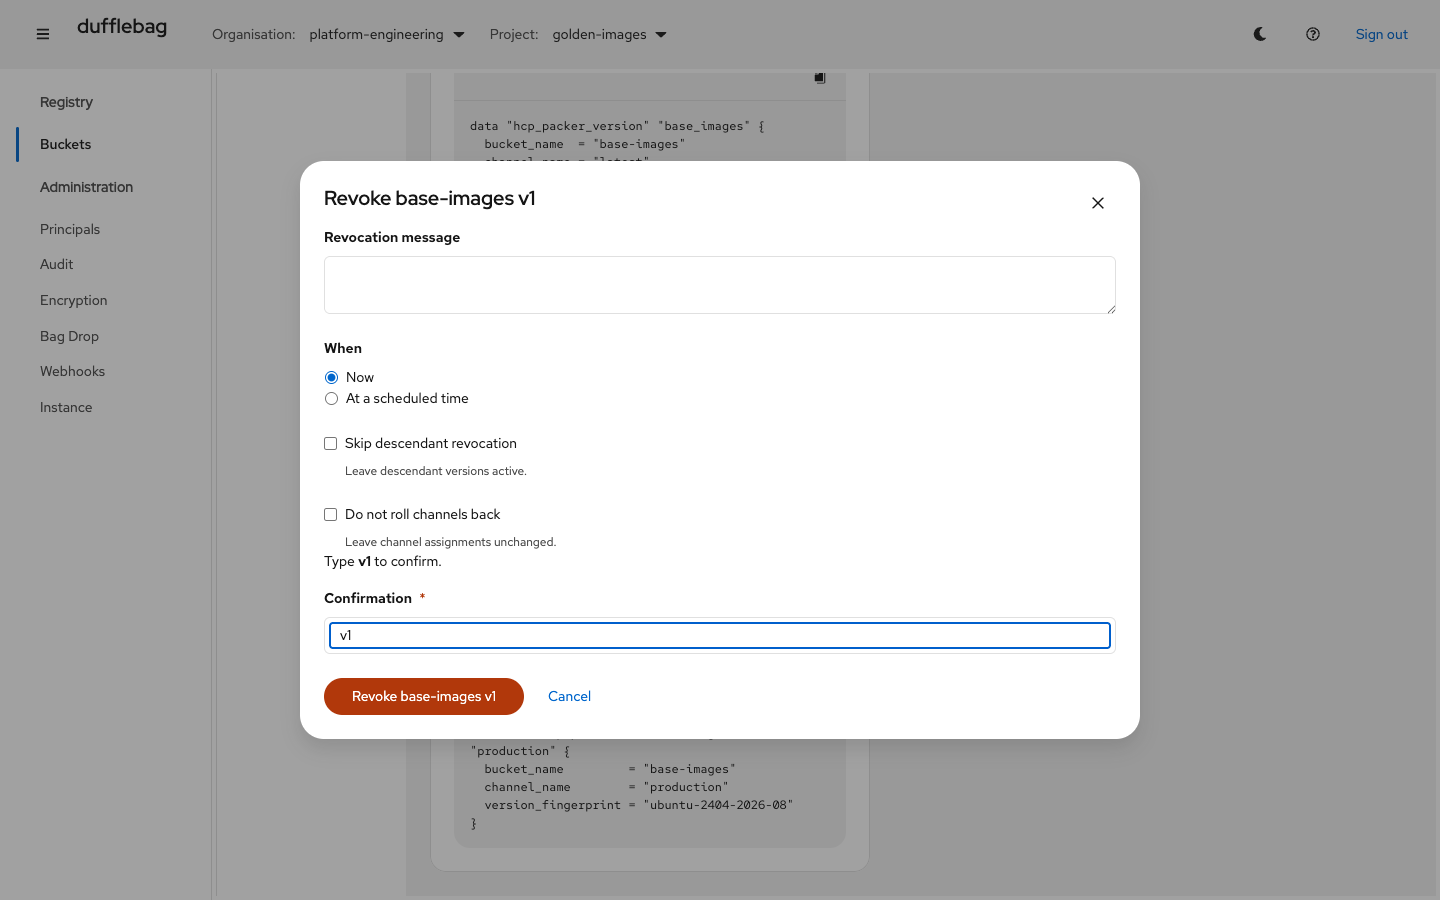
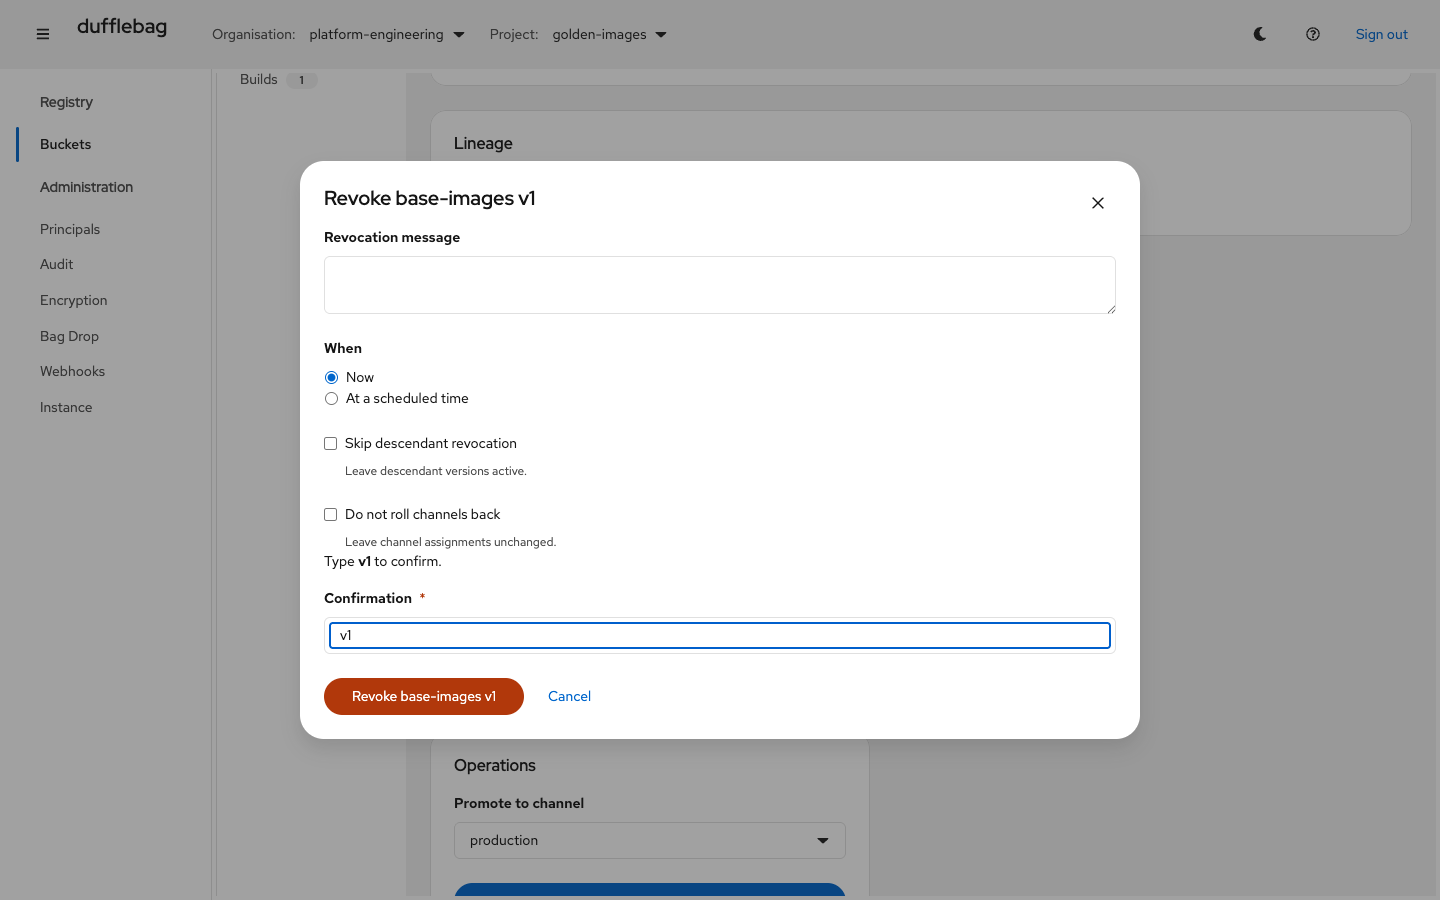
docs: the consumption card gets its own capture
The consumption prose described the platform toggle while the nearest
image framed the Operations card, cropping the toggle out. The shot
harness now captures the Consume card centred — toggle, code block and
copy affordance visible — and the guide references it where the prose
discusses it. Captures regenerated.

diff --git a/docs-site/administration/console.md b/docs-site/administration/console.md
@@ -115,6 +115,8 @@ The card offers Terraform plus platform-appropriate commands for platforms the
 version actually built. Terraform is always present and selected by default;
 platforms without a confident command mapping fall back to Terraform.
 
+![Dufflebag consumption card showing the Terraform and platform command toggle](/screenshots/version-consume.png)
+
 ### Build
 
 A build shows its status history, artifacts and SBOMs.
